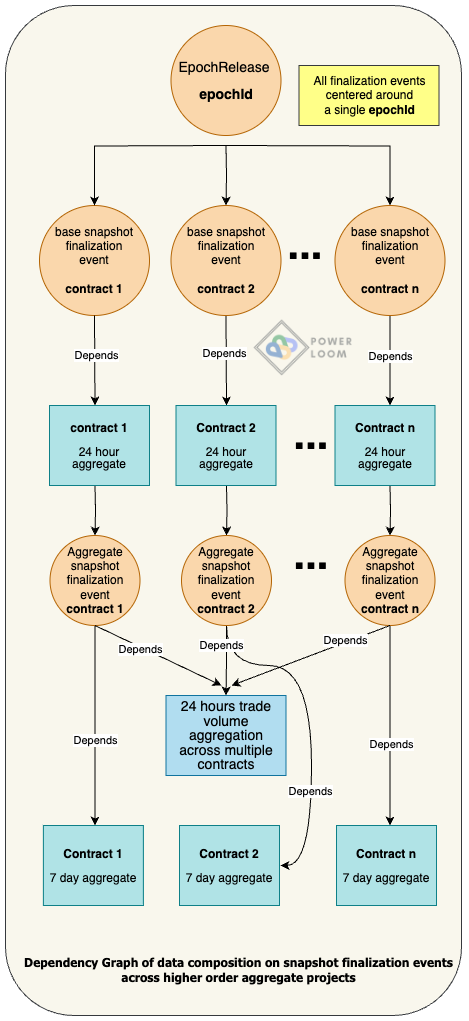
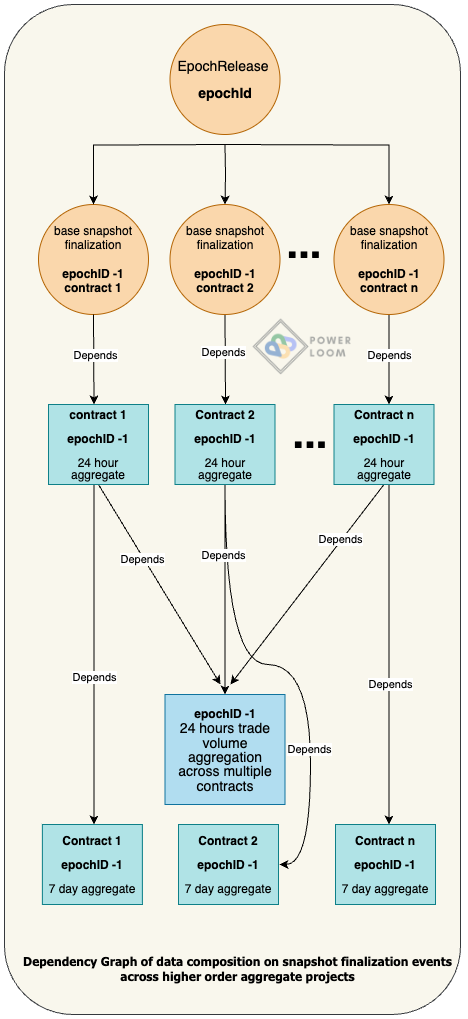
docs: update README according to improved aggregation workflow

diff --git a/README.md b/README.md
@@ -118,7 +118,7 @@ Workers as defined in `config/aggregator.json` are triggered by the appropriate 
 
 In case of aggregation over multiple projects, their project IDs are generated with a combination of the hash of the dependee project IDs along with the namespace
 
-https://github.com/PowerLoom/pooler/blob/e7a5bd62debfe726d1473f0dfb68856dab43ef25/pooler/utils/aggregation_worker.py#L116-L124
+https://github.com/PowerLoom/pooler/blob/939dd41a87e964ec754d955f0c9988983164254e/pooler/utils/aggregation_worker.py#L116-L124
 
 ## Development Instructions
 These instructions are needed if you're planning to run the system using `build-dev.sh` from [deploy](https://github.com/PowerLoom/deploy).
@@ -140,8 +140,8 @@ Pooler needs the following config files to be present
         ```
         Copy over [`config/projects.example.json`](config/projects.example.json) to `config/projects.json`. For more details, read on in the [section below on extending a use case](#extending-pooler-with-a-uniswap-v2-data-point).
     * **`config/aggregator.json`** : This lists out different type of aggregation work to be performed over a span of snapshots. Copy over [`config/aggregator.example.json`](config/aggregator.example.json) to `config/aggregator.json`. The span is usually calculated as a function of the epoch size and average block time on the data source network. For eg,
-        * the following configuration calculates a snapshot of total trade volume over a 24 hour time period, based on the [snapshot finalization](#snapshot-finalization) of a project ID corresponding to a pair contract. This can be seen by the `aggregate_on` key being set to `SingleProject`.
-            * This is specified by the `filters` key below. If a [snapshot finalization](#snapshot-finalization) is achieved for an epoch over a project ID [(ref:generation of project ID for snapshot building workers)](#epoch-generation) `pairContract_trade_volume:0xb4e16d0168e52d35cacd2c6185b44281ec28c9dc:UNISWAPV2`, this would trigger the worker [`AggreagateTradeVolumeProcessor`](pooler/modules/uniswapv2/aggregate/single_uniswap_trade_volume_24h.py) as defined in the `processor` section of the config against the pair contract `0xb4e16d0168e52d35cacd2c6185b44281ec28c9dc`.
+        * the following configuration calculates a snapshot of total trade volume over a 24 hour time period, at `epochId-1` considering an `EpochReleased` protocol event at `epochId`. This can be seen by the `aggregate_on` key being set to `SingleProject`.
+            * the `filters` key configures the aggregation of trade volume snapshots across epochs that span ~24 hours for each project ID corresponding to contracts specified in **config/projects.json** as explained above. The worker for this is [`AggreagateTradeVolumeProcessor`](pooler/modules/uniswapv2/aggregate/single_uniswap_trade_volume_24h.py) as defined in the `processor` section of the config.
         ```javascript
         {
             "config": [
@@ -149,9 +149,8 @@ Pooler needs the following config files to be present
                     "project_type": "aggregate_pairContract_24h_trade_volume",
                     "aggregate_on": "SingleProject",
                     "filters": {
-                        // this triggers the compute() contained in the processor class at the module location
-                        // every time a `SnapshotFinalized` event is received for project IDs containing the prefix `pairContract_trade_volume`
-                        // at each epoch ID
+                        // this triggers the compute() contained in the processor class at the module location for project IDs prefixed with `pairContract_trade_volume` on each pair contract address
+                        // every time an `EpochReleased` event is received, at (epoch ID - 1)
                         "projectId": "pairContract_trade_volume"
                     },
                     "processor": {
@@ -163,7 +162,8 @@ Pooler needs the following config files to be present
         }
         ```
         * The following configuration generates a collection of data sets of 24 hour trade volume as calculated by the worker above across multiple pair contracts. This can be seen by the `aggregate_on` key being set to `MultiProject`.
-            * `projects_to_calculate_on` specifies the exact project IDs on which this collection will be generated once a [snapshot finalized event](#snapshot-finalization) has been received for an [`epochId`](#epoch-generation).
+            * `projects_to_calculate_on` specifies the exact project IDs on which this collection will be generated at `epochId - 1` once an `EpochReleased` event has been received for an [`epochId`](#epoch-generation). 
+            
         ```javascript
         {
             "config": [
@@ -171,7 +171,8 @@ Pooler needs the following config files to be present
                 "aggregate_on": "MultiProject",
                 "projects_to_calculate_on": [
                     // this triggers the compute() contained in the processor class at the module location
-                    // after `SnapshotFinalized` events are received for project IDs containing the prefix `pairContract_trade_volume`
+                    // after `EpochReleased` event is received for an epochId 
+                    // which collects the aggregate datasets of the following projects finalized at epochId - 1
                     "aggregate_pairContract_24h_trade_volume:0xa478c2975ab1ea89e8196811f51a7b7ade33eb11:UNISWAPV2",
                     "pairContract_pair_total_reserves:0xa478c2975ab1ea89e8196811f51a7b7ade33eb11:UNISWAPV2",
                     "aggregate_pairContract_24h_trade_volume:0x11181bd3baf5ce2a478e98361985d42625de35d1:UNISWAPV2",
@@ -330,9 +331,7 @@ The Processor Distributor, defined in [`processor_distributor.py`](pooler/proces
 * It creates and distributes processing messages based on project configuration present in `config/projects.json` and `config/aggregator.json`, and the topic pattern used in the routing key received from the topic exchange
   * For [`EpochReleased` events](#epoch-generation), it forwards such messages to base snapshot builders for data source contracts as configured in `config/projects.json` for the current epoch information contained in the event.
     https://github.com/PowerLoom/pooler/blob/1452c166bef7534568a61b3a2ab0ff94535d7229/pooler/processor_distributor.py#L125-L141
-  * For [`SnapshotFinalized` events](#snapshot-finalization), it forwards such messages to single and multi project aggregate topic routing keys.
-    https://github.com/PowerLoom/pooler/blob/1452c166bef7534568a61b3a2ab0ff94535d7229/pooler/processor_distributor.py#L228-L303
-
+  * For [`SnapshotFinalized` events](#snapshot-finalization), there are no workflow triggers as of now.
 ### Callback Workers
 
 The callback workers are basically the ones that build the base snapshot and aggregation snapshots and as explained above, are launched by the [processor distributor](#processor-distributor) according to the configurations in `aggregator/projects.json` and `config/aggregator.json`. They listen to new messages on the `powerloom-backend-callback` topic queue. Upon receiving a message, the workers do most of the heavy lifting along with some sanity checks and then calls the actual `compute` function defined in the project configuration to read blockchain state and generate the snapshot.
